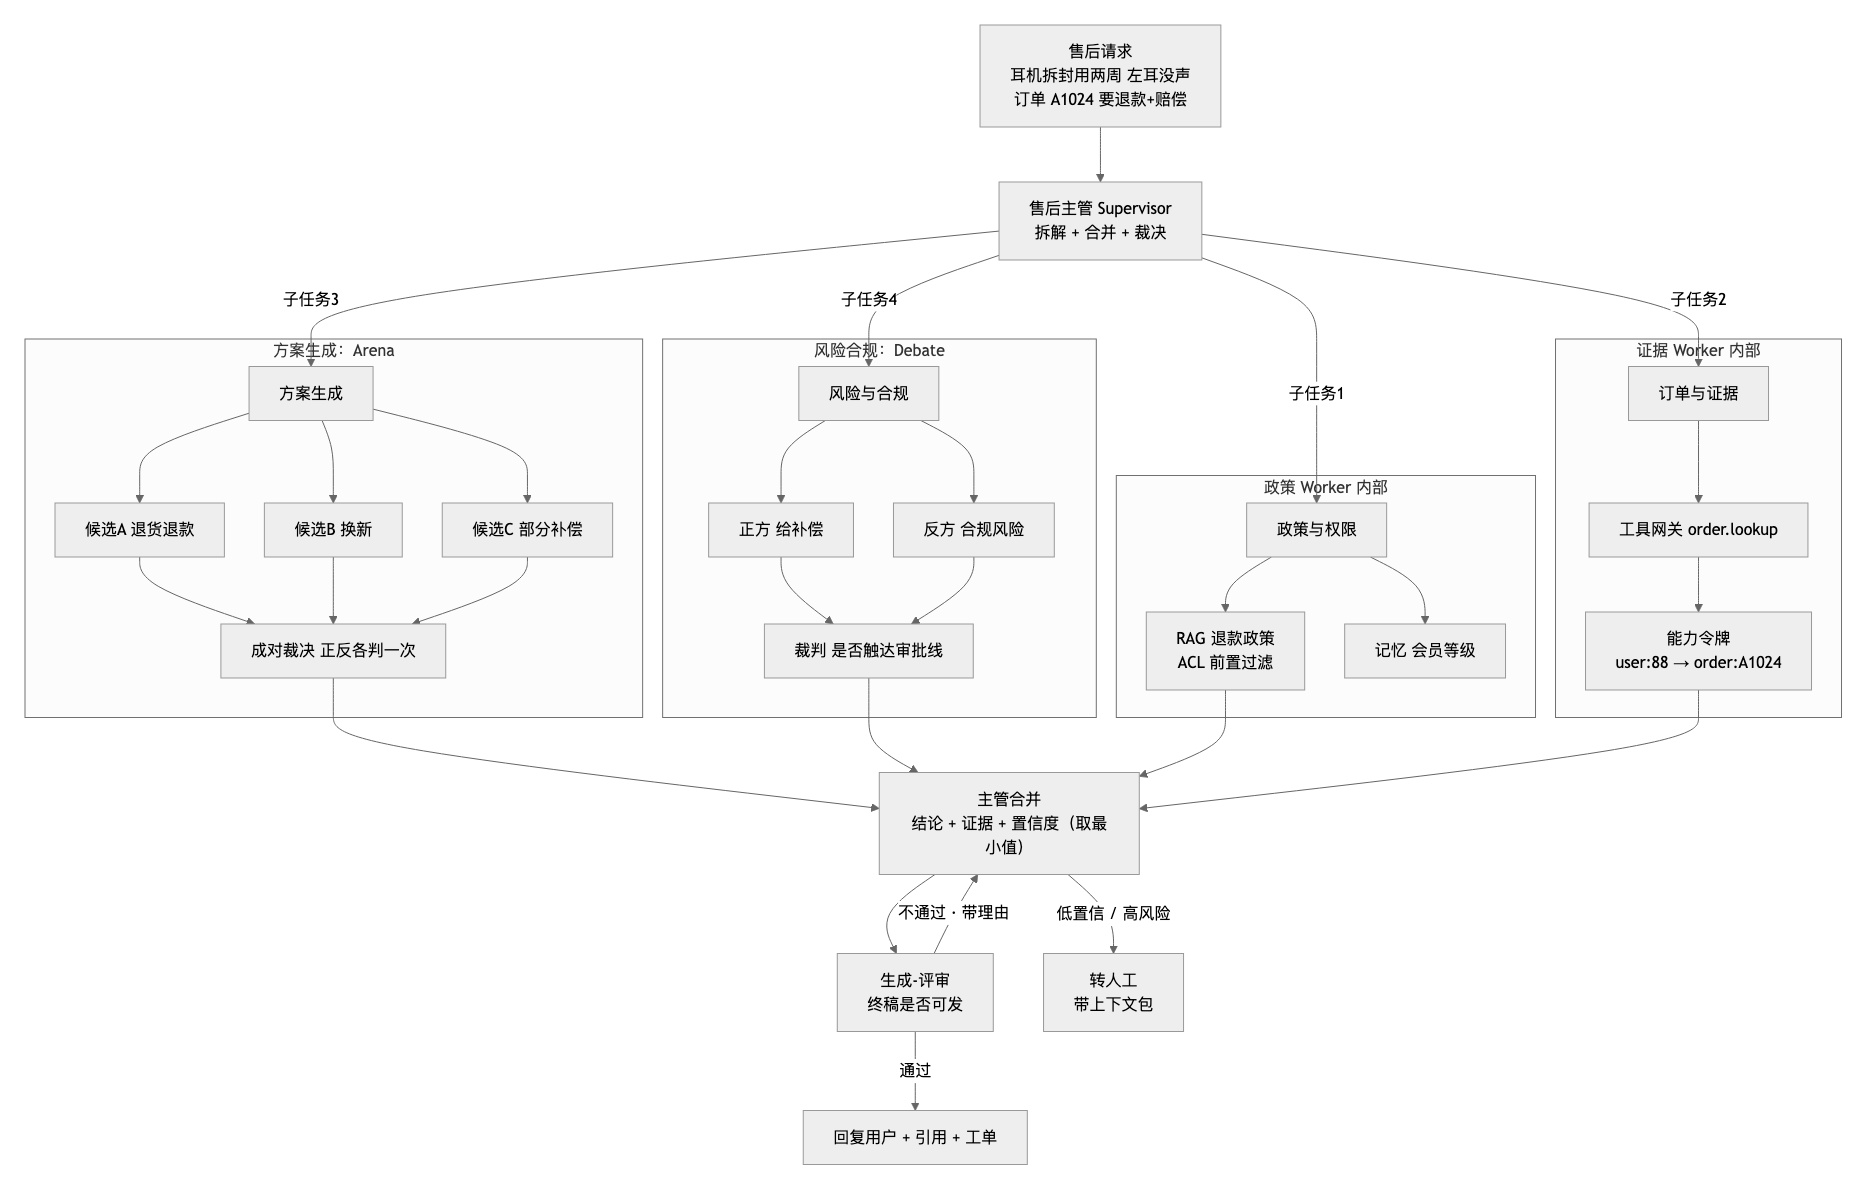
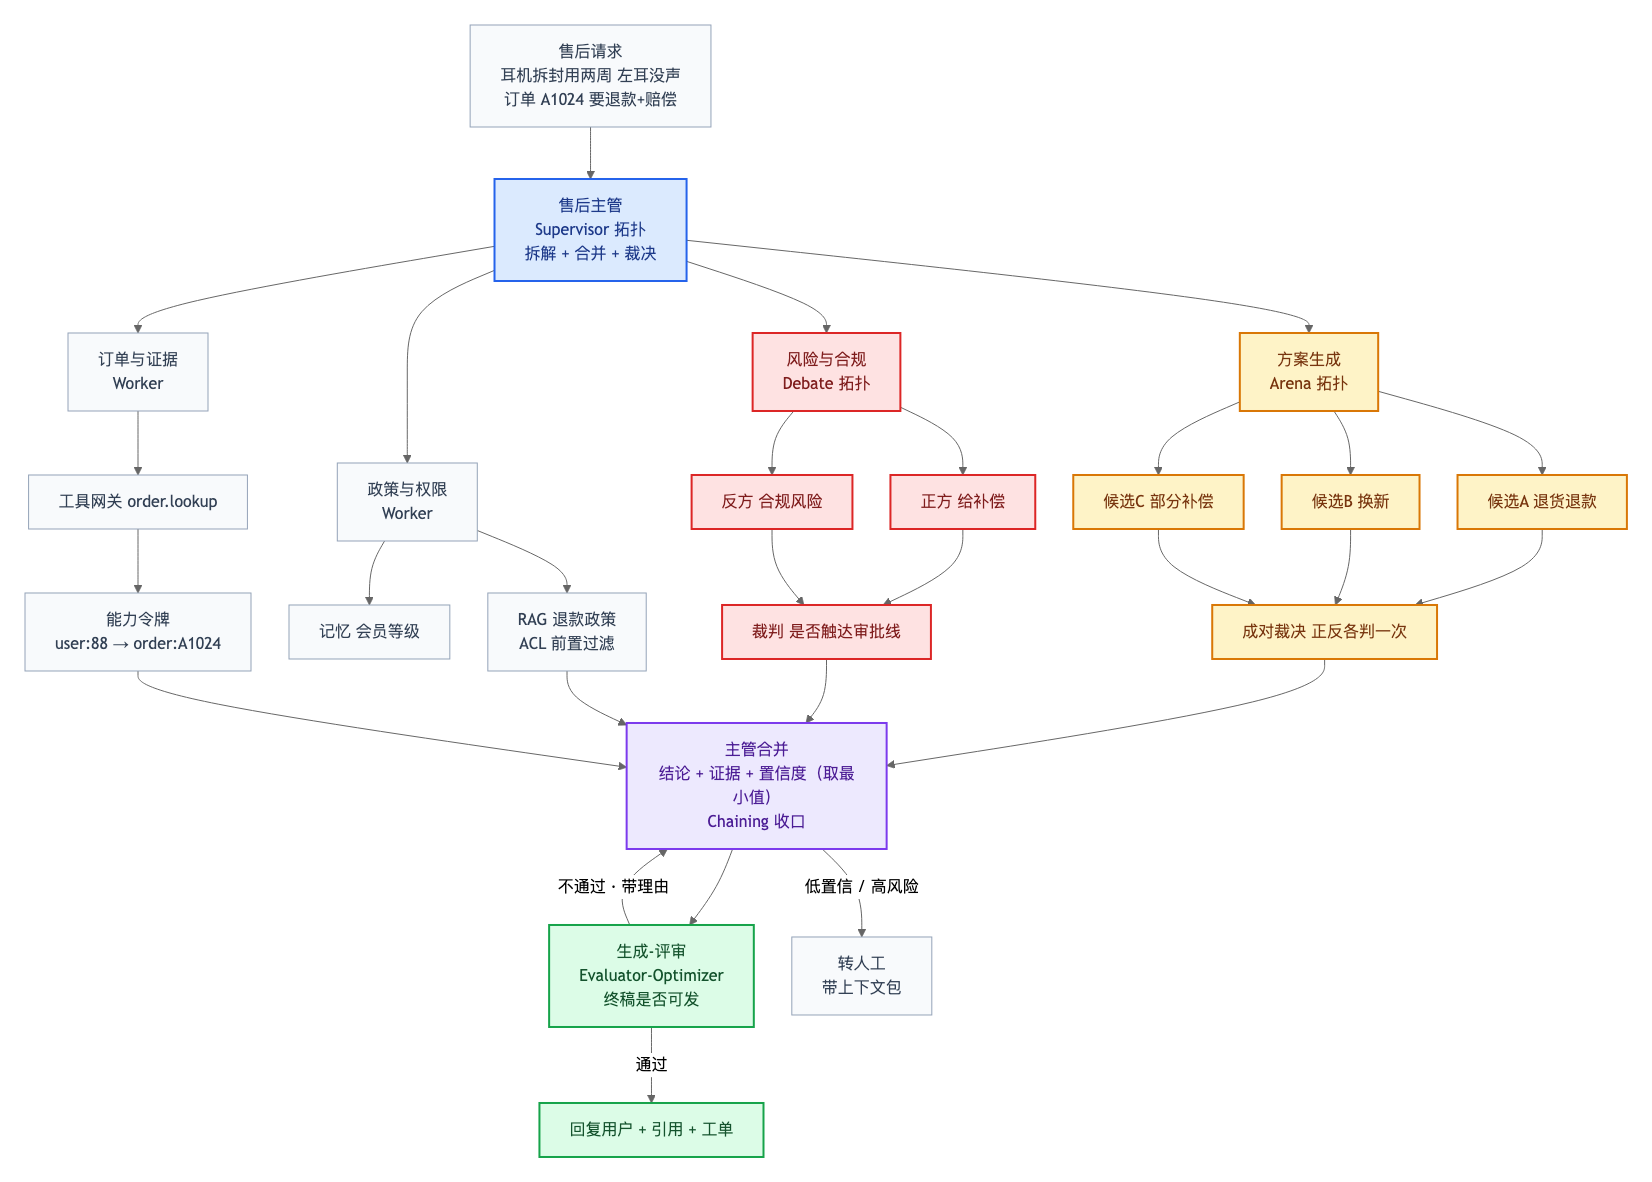
docs: 组合架构图按模式上色，六种模式一眼可辨
- 图 1：Routing(紫)/Supervisor(蓝)/Evaluator(绿) 上色
- 图 2：Supervisor(蓝)/Arena(黄)/Debate(红)/Evaluator(绿)/Chaining(紫) 上色
- 去掉易与布局错位的「子任务N」编号
- 文档补充颜色图例，说明每个颜色对应哪种模式

diff --git a/offline/practice/composite-architecture.html b/offline/practice/composite-architecture.html
@@ -87,10 +87,16 @@
 <h2 id="一图看懂整体分层">一图看懂：整体分层</h2>
 <p><img src="../assets/images/composite-arch-layers.png" alt="" loading="lazy"></p>
 <p class="diagram-caption"><strong>图 1</strong> · 一个请求自上而下穿过六层；治理面（右下方虚线）横向约束每一层，而不是某一层</p>
+<div class="custom-block tip"><p class="custom-block-title">颜色 = 模式</p>
+<p>本图按模式上色，方便一眼识别：<span style="color:#4f46e5">■ 紫 = Routing 路由</span>、<span style="color:#2563eb">■ 蓝 = Supervisor 主管</span>、<span style="color:#16a34a">■ 绿 = Evaluator-Optimizer 生成-评审</span>；灰色是基础设施（网关、检索、存储、沙箱）。</p>
+</div>
 <h2 id="图-2主管内部四种模式同时在场">图 2：主管内部，四种模式同时在场</h2>
 <p>真正的复杂度在图 1 的「售后主管」这个盒子里。展开它：</p>
 <p><img src="../assets/images/composite-arch-supervisor.png" alt="" loading="lazy"></p>
 <p class="diagram-caption"><strong>图 2</strong> · 一个 Supervisor 内部同时跑着 Worker、Arena、Debate、Evaluator，以及 RAG 与工具网关</p>
+<div class="custom-block tip"><p class="custom-block-title">一张图里同时有六种模式</p>
+<p><span style="color:#2563eb">■ 蓝 = Supervisor</span>（拆解与合并）、<span style="color:#d97706">■ 黄 = Arena</span>（多候选对战）、<span style="color:#dc2626">■ 红 = Debate</span>（正反方裁决）、<span style="color:#16a34a">■ 绿 = Evaluator-Optimizer</span>（终稿评审）、<span style="color:#7c3aed">■ 紫 = Chaining</span>（合并收口）；灰色是 Worker 与基础设施。</p>
+</div>
 <h2 id="一次请求的完整时序">一次请求的完整时序</h2>
 <div class="code-block"><div class="code-lang">text</div><pre><code>1. 接入层      API 网关：校验身份、租户额度、限流；未开通租户直接 403
 2. 路由层      意图分类：『退款+赔偿+投诉』→ 置信度 0.78 → 复杂售后
